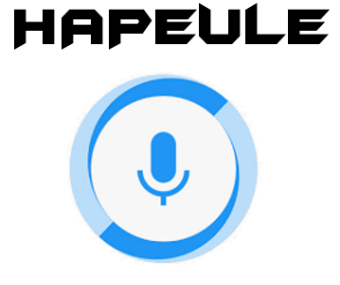
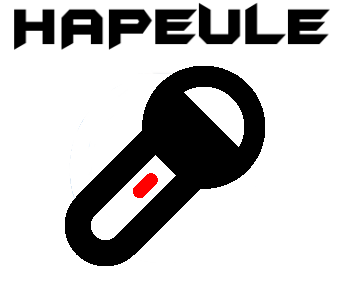
maj interface + parcour .wav + assemblage traitement audio

Changed region(s): [[0.1765, 0.2246, 0.7941, 0.9544]]

diff --git a/testwav/wave.c b/testwav/wave.c
@@ -1,0 +1,230 @@
+# include <unistd.h>
+# include <stdio.h>
+# include <string.h>
+# include <stdlib.h>
+# include <math.h>
+# include "fft.c"
+# include "wave.h"
+# define TRUE 1 
+# define FALSE 0
+# define PI 3.14159265358979323846
+
+struct HEADER header;
+
+int main(int argc, char **argv) {
+  (void)argc;  
+  char *filename = (char*) malloc(sizeof(char) * 1024);
+  unsigned char buffer4[4];
+  unsigned char buffer2[2];
+
+  // chemin du fichier
+  char cwd[1024];
+  getcwd(cwd, sizeof(cwd));
+  strcpy(filename, cwd);
+  strcat(filename, "/");
+  strcat(filename, argv[1]);
+
+  FILE *ptr = fopen(filename, "rb");
+  if (ptr == NULL) {
+    printf("Error opening file\n");
+    exit(1);
+  }
+
+  int read = 0;
+
+  // read header parts
+
+  read = fread(header.riff, sizeof(header.riff), 1, ptr);
+  printf("(1-4): %s \n", header.riff); 
+
+  read = fread(buffer4, sizeof(buffer4), 1, ptr);
+  printf("%u %u %u %u\n", buffer4[0], buffer4[1], buffer4[2], buffer4[3]);
+
+  // convert little endian to big endian 4 byte int
+  header.overall_size  = buffer4[0] | 
+    (buffer4[1]<<8) | 
+    (buffer4[2]<<16) | 
+    (buffer4[3]<<24);
+
+  printf("(5-8) Overall size: bytes:%u, Kb:%u \n", header.overall_size, header.overall_size/1024);
+
+  read = fread(header.wave, sizeof(header.wave), 1, ptr);
+  printf("(9-12) Wave marker: %s\n", header.wave);
+
+  read = fread(header.fmt_chunk_marker, sizeof(header.fmt_chunk_marker), 1, ptr);
+  printf("(13-16) Fmt marker: %s\n", header.fmt_chunk_marker);
+
+  read = fread(buffer4, sizeof(buffer4), 1, ptr);
+  printf("%u %u %u %u\n", buffer4[0], buffer4[1], buffer4[2], buffer4[3]);
+
+  // convert little endian to big endian 4 byte integer
+  header.length_of_fmt = buffer4[0] |
+    (buffer4[1] << 8) |
+    (buffer4[2] << 16) |
+    (buffer4[3] << 24);
+  printf("(17-20) Length of Fmt header: %u \n", header.length_of_fmt);
+
+  read = fread(buffer2, sizeof(buffer2), 1, ptr); printf("%u %u \n", buffer2[0], buffer2[1]);
+
+  header.format_type = buffer2[0] | (buffer2[1] << 8);
+  char format_name[10] = "";
+  if (header.format_type == 1)
+    strcpy(format_name,"PCM"); 
+  else if (header.format_type == 6)
+    strcpy(format_name, "A-law");
+  else if (header.format_type == 7)
+    strcpy(format_name, "Mu-law");
+
+  printf("(21-22) Format type: %u %s \n", header.format_type, format_name);
+
+  read = fread(buffer2, sizeof(buffer2), 1, ptr);
+  printf("%u %u \n", buffer2[0], buffer2[1]);
+
+  header.channels = buffer2[0] | (buffer2[1] << 8);
+  printf("(23-24) Channels: %u \n", header.channels);
+
+  read = fread(buffer4, sizeof(buffer4), 1, ptr);
+  printf("%u %u %u %u\n", buffer4[0], buffer4[1], buffer4[2], buffer4[3]);
+
+  header.sample_rate = buffer4[0] |
+    (buffer4[1] << 8) |
+    (buffer4[2] << 16) |
+    (buffer4[3] << 24);
+
+  printf("(25-28) Sample rate: %u\n", header.sample_rate);
+
+  read = fread(buffer4, sizeof(buffer4), 1, ptr);
+  printf("%u %u %u %u\n", buffer4[0], buffer4[1], buffer4[2], buffer4[3]);
+
+  header.byterate  = buffer4[0] |
+    (buffer4[1] << 8) |
+    (buffer4[2] << 16) |
+    (buffer4[3] << 24);
+  printf("(29-32) Byte Rate: %u , Bit Rate:%u\n", header.byterate, header.byterate*8);
+
+  read = fread(buffer2, sizeof(buffer2), 1, ptr);
+  printf("%u %u \n", buffer2[0], buffer2[1]);
+
+  header.block_align = buffer2[0] |
+    (buffer2[1] << 8);
+  printf("(33-34) Block Alignment: %u \n", header.block_align);
+
+  read = fread(buffer2, sizeof(buffer2), 1, ptr);
+  printf("%u %u \n", buffer2[0], buffer2[1]);
+
+  header.bits_per_sample = buffer2[0] |
+    (buffer2[1] << 8);
+  printf("(35-36) Bits per sample: %u \n", header.bits_per_sample);
+
+  read = fread(header.data_chunk_header, sizeof(header.data_chunk_header), 1, ptr);
+  printf("(37-40) Data Marker: %s \n", header.data_chunk_header);
+
+  read = fread(buffer4, sizeof(buffer4), 1, ptr);
+  printf("%u %u %u %u\n", buffer4[0], buffer4[1], buffer4[2], buffer4[3]);
+
+  header.data_size = buffer4[0] |
+    (buffer4[1] << 8) |
+    (buffer4[2] << 16) | 
+    (buffer4[3] << 24 );
+  printf("(41-44) Size of data chunk: %u \n", header.data_size);
+
+
+  // calculate no.of samples
+  long num_samples = (8 * header.data_size) / (header.channels * header.bits_per_sample);
+  printf("Number of samples:%lu \n", num_samples);
+
+  long size_of_each_sample = (header.channels * header.bits_per_sample) / 8;
+  printf("Size of each sample:%ld bytes\n", size_of_each_sample);
+
+  // durée du fichier
+  float duration_in_seconds = (float) header.overall_size / header.byterate;
+  printf("Approx.Duration in seconds=%f\n", duration_in_seconds);
+
+
+
+  /////////////////////////////////////////////////////////////////////////////////////////////////////////////////////////////////////////////
+
+
+  double tab[num_samples];
+  if (header.format_type == 1) {
+    printf("Continuer? Y/N?");
+    char c = 'n';
+    scanf("%c", &c);
+    if (c == 'Y' || c == 'y') {
+      long i =0;
+      char data_buffer[size_of_each_sample];
+      int  size_is_correct = TRUE;
+      long bytes_in_each_channel = (size_of_each_sample / header.channels);
+      if ((bytes_in_each_channel  * header.channels) != size_of_each_sample) {
+	size_is_correct = FALSE;
+      }
+      if (size_is_correct) { 
+	long low_limit = 0l;
+	long high_limit = 0l;
+
+	switch (header.bits_per_sample) {
+	  case 8:
+	    low_limit = -128;
+	    high_limit = 127;
+	    break;
+	  case 16:
+	    low_limit = -32768;
+	    high_limit = 32767;
+	    break;
+	  case 32:
+	    low_limit = -2147483648;
+	    high_limit = 2147483647;
+	    break;
+	}					
+	for (i =1; i <= num_samples; i++) {
+	  read = fread(data_buffer, sizeof(data_buffer), 1, ptr);
+	  if (read == 1) {
+	    unsigned int  xchannels = 0;
+	    int data_in_channel = 0;
+	    for (xchannels = 0; xchannels < header.channels; xchannels ++ ) {
+	      // passage des petits endian en grand endian
+	      if (bytes_in_each_channel == 4) {
+		data_in_channel =	data_buffer[0] | 
+		  (data_buffer[1]<<8) | 
+		  (data_buffer[2]<<16) | 
+		  (data_buffer[3]<<24);
+	      }
+	      else if (bytes_in_each_channel == 2) {
+		data_in_channel = data_buffer[0] |
+		  (data_buffer[1] << 8);
+	      }
+	      else if (bytes_in_each_channel == 1) {
+		data_in_channel = data_buffer[0];
+	      }
+	      tab[i] = (data_in_channel * 0.5 * (1-cos(2*PI*i/(sizeof(tab)/sizeof(double))-1)));
+	    }
+	  }
+	}
+	size_t k = 1;
+	while ((k*2) < num_samples){
+	  k *= 2;
+	}
+	cplx second[k];
+	for(unsigned long i = 0; i < k; ++i)
+	  second[i] = tab[i];
+	printf("\nTaille des données restantes %zu \n", k);
+
+	fft(second, k, PI);
+
+	//print_result("Output : ", second, k);
+
+	unsigned long tableau[k];
+	for(unsigned long i = 0; i < k; ++i){
+	  tableau[i] = csqrtl(pow(creal(second[i]), 2)+ pow(cimag(second[i]), 2));
+	  while(tableau[i] > 127)
+	    tableau[i] /= 127;
+	  printf("%lu ", tableau[i]);
+	}
+	printf("\n");
+      } 
+    }
+  } 
+  fclose(ptr);
+  free(filename);
+  return 0;
+}

diff --git a/testwav/wave.h b/testwav/wave.h
@@ -1,0 +1,17 @@
+// WAVE file header format
+struct HEADER {
+    unsigned char riff[4];                      // RIFF string
+    unsigned int overall_size   ;               // overall size of file in bytes
+    unsigned char wave[4];                      // WAVE string
+    unsigned char fmt_chunk_marker[4];          // fmt string with trailing null char
+    unsigned int length_of_fmt;                 // length of the format data
+    unsigned int format_type;                   // format type. 1-PCM, 3- IEEE float, 6 - 8bit A law, 7 - 8bit mu law
+    unsigned int channels;                      // no.of channels
+    unsigned int sample_rate;                   // sampling rate (blocks per second)
+    unsigned int byterate;                      // SampleRate * NumChannels * BitsPerSample/8
+    unsigned int block_align;                   // NumChannels * BitsPerSample/8
+    unsigned int bits_per_sample;               // bits per sample, 8- 8bits, 16- 16 bits etc
+    unsigned char data_chunk_header [4];        // DATA string or FLLR string
+    unsigned int data_size;                     // NumSamples * NumChannels * BitsPerSample/8 - size of the next chunk that will be read
+};
+

diff --git a/testwav/fft.c b/testwav/fft.c
@@ -1,0 +1,40 @@
+# include <stdio.h>
+# include <math.h>
+# include <complex.h>
+
+typedef double complex cplx;
+
+// Algo de la fft
+
+void _fft(cplx tab[], cplx tmp[], int n, int step, double PI)
+{
+  if (step < n) {
+    _fft(tmp, tab, n, step * 2, PI);
+    _fft(tmp + step, tab + step, n, step * 2, PI);
+    for (int i = 0; i < n; i += 2 * step) {
+      cplx t = cexp(-I * PI * i / n) * tmp[i + step];
+      tab[i / 2]     = tmp[i] + t;
+      tab[(i + n)/2] = tmp[i] - t;
+    }
+  }
+}
+
+// Fonction d'appel (crée le tableau de resultat)
+
+void fft(cplx tab[], int n, double PI)
+{
+  cplx tmp[n];
+  for (int i = 0; i < n; i++) 
+    tmp[i] = tab[i];
+  _fft(tab, tmp, n, 1, PI);
+}
+
+// Fonction de print qui affiche sous forme de couple (reel, imaginaire) un tableau de cplx 
+
+void print_result(const char * s, cplx buf[], unsigned long k) {
+  printf("%s", s);
+  for (int i = 0; i < k; i++){
+    printf("(%g, %g) ", creal(buf[i]), cimag(buf[i]));
+  }
+  printf("\n");
+}
